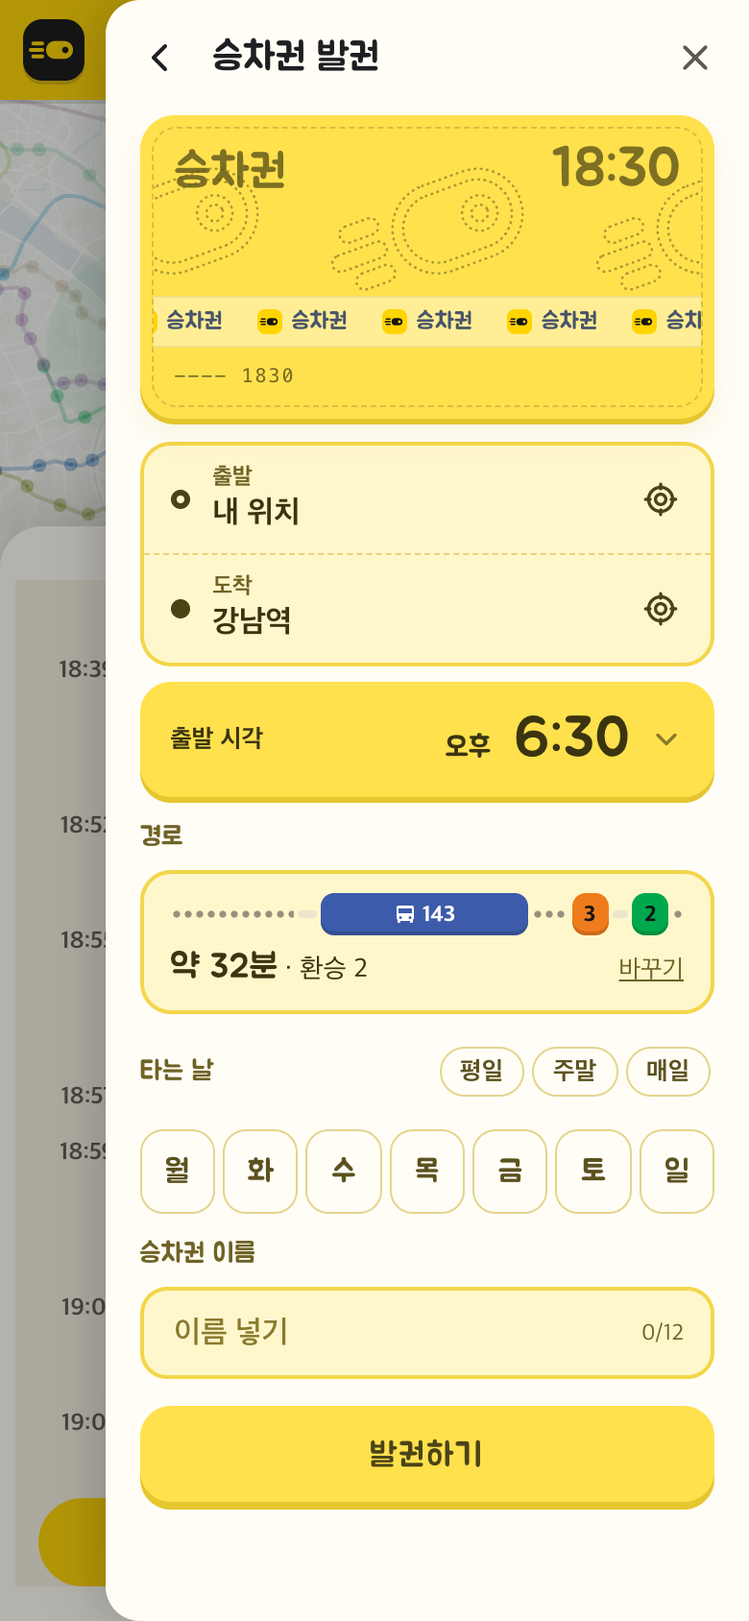
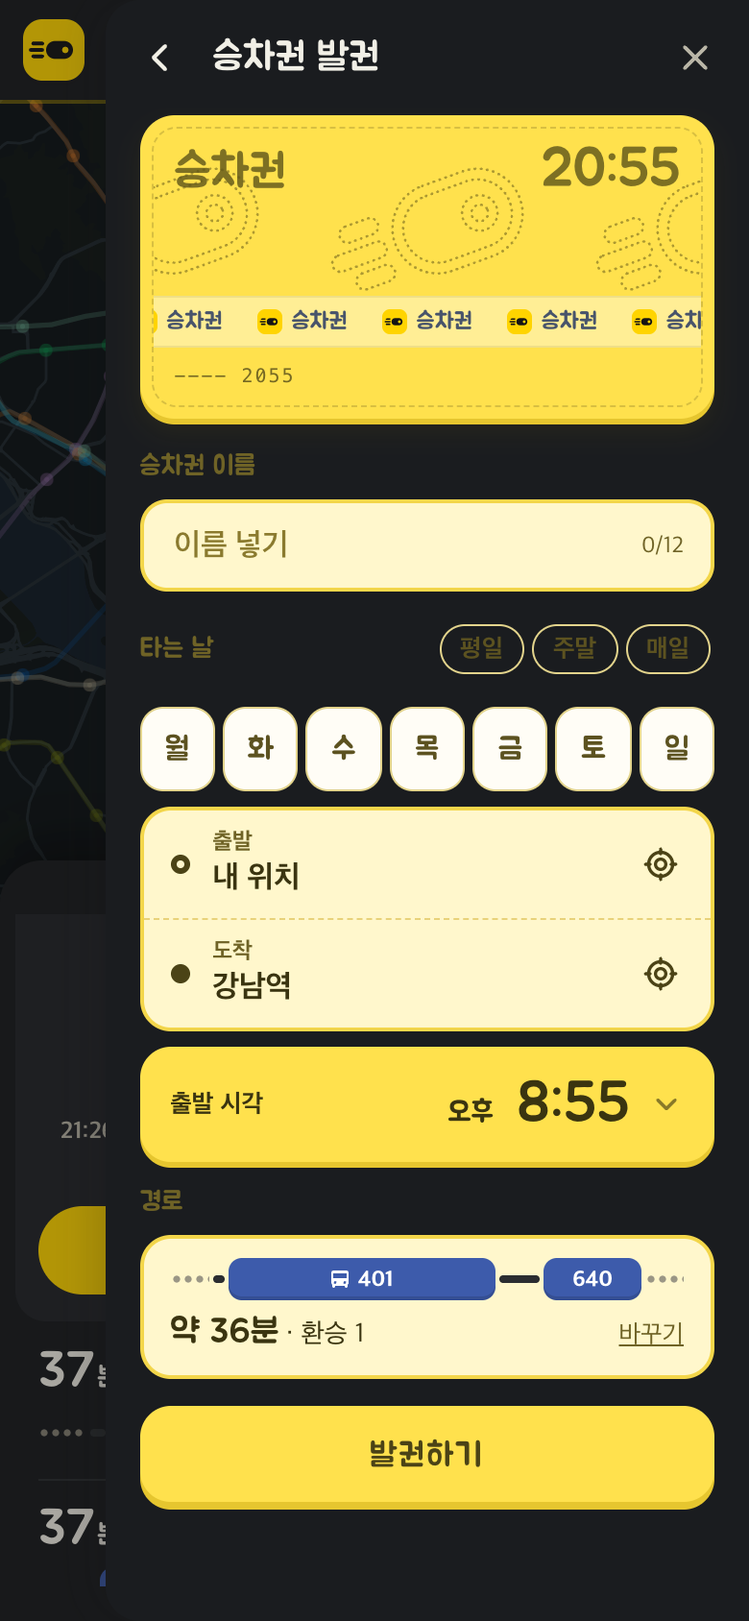
fix(web): 경로 시트 높이 고정 · 카드 닫힘 · 세 줄 칸 · 오늘 기준 출발 시각 · 발권 순서 변경

diff --git a/web/syung.css b/web/syung.css
@@ -436,6 +436,11 @@ html[data-theme=dark] .jdot.from{box-shadow:0 0 0 2px #000}
 
 /* 길찾기 sheet: taller, so the routes have room under the form */
 .sheet:has(.journey){max-height:72%}
+/* 휴대폰: 경로 결과 시트는 지도의 길이 보이게 처음 높이를 50%로 둔다. 카드를 펼치거나 시각을 골라도 커지지 않고 몸통(.sheet-body)이 스크롤한다.
+   손잡이를 위로 끌 때만 72%(.tall — ui/sheet.mts) */
+@media(max-width:720px){.sheet:not(.kb):has(.journey.done){height:50%;max-height:50%}
+  .sheet.tall:not(.kb):has(.journey.done){height:72%;max-height:72%}}
+@media(max-width:720px) and (prefers-reduced-motion:no-preference){.sheet:not(.kb):has(.journey.done){transition:transform .32s var(--ease-sheet),height .2s var(--ease-sheet),max-height .2s var(--ease-sheet)}}
 /* no double-tap page zoom on the controls; the map keeps its own gestures */
 .mast,.route-cta,.sheet,.jbar,.settings-panel{touch-action:manipulation}
 @media(max-width:720px){
@@ -461,6 +466,7 @@ html[data-theme=dark] .jdot.from{box-shadow:0 0 0 2px #000}
 .jsum-swap svg{width:18px;height:18px}
 .jsum-end b{font-weight:var(--weight-bold);overflow:hidden;text-overflow:ellipsis;white-space:nowrap}
 .jsum-end .jdot{width:8px;height:8px}
+
 .sheet .sheet-close{display:none}   /* every sheet: the handle closes it (drag down or tap), and Esc */
 
 /* kind filter: the same segmented control as the time and the theme */
@@ -628,25 +634,21 @@ html[data-theme=dark] .brand-icon{content:url(./brand/syung-light.svg)}
 .identity .brand-line p::before{content:"";width:1.5px;height:14px;border-radius:1px;background:currentColor;opacity:.45}
 @media(max-width:720px){.identity .brand-line p{display:none}}   /* phones: the name only */
 
-/* 출발 시각: one quiet line under the card; tapped, it opens in place — 오늘/내일, a big clock, −/+ 10분 */
+/* 출발 시각: 카드의 셋째 줄; tapped, it opens in place — the time wheels */
 .jwhen{display:block}
 .jw-row{display:flex;align-items:center;gap:var(--space-2);width:100%;height:44px;padding:0 var(--space-3) 0 14px;border:0;border-radius:var(--radius-14);background:var(--control);color:var(--ink);font:inherit;font-size:var(--text-14-5);font-weight:var(--weight-bold);text-align:left;cursor:pointer}
 .jw-row svg{width:17px;height:17px;flex:none;color:var(--secondary)}
 .jw-row span{flex:1;min-width:0}
 .jw-row .jw-chev{width:16px;height:16px;transition:transform var(--duration-200) var(--ease-sheet)}
-.jw-row[aria-expanded=true]{border-radius:var(--radius-14) var(--radius-14) 0 0}
 .jw-row[aria-expanded=true] .jw-chev{transform:rotate(90deg)}
 .jw-row.set svg:first-child{color:var(--syung-deep)}
 html[data-theme=dark] .jw-row.set svg:first-child{color:var(--syung)}
-.jw-panel{display:flex;flex-direction:column;align-items:stretch;gap:var(--space-3);padding:var(--space-1) 14px 14px;border-radius:0 0 var(--radius-14) var(--radius-14);background:var(--control);animation:jw-in var(--duration-200) var(--ease-sheet)}
+.jw-panel{display:flex;flex-direction:column;align-items:stretch;gap:var(--space-3);padding:0 14px 14px;background:var(--control);animation:jw-in var(--duration-200) var(--ease-sheet)}
 .jw-panel[hidden]{display:none}
 @keyframes jw-in{from{opacity:0;transform:translateY(-4px)}}
-.jw-head{display:flex;align-items:center;justify-content:space-between;border-top:1px solid var(--rule);padding-top:var(--space-3)}
-.jw-head b{font-size:var(--text-13);color:var(--secondary)}
-.jw-now{height:30px;padding:0 var(--space-3);border:0;border-radius:var(--radius-pill);background:var(--paper);color:var(--ink);font:inherit;font-size:var(--text-12-5);font-weight:var(--weight-bold);cursor:pointer}
-.jw-day{align-self:center;background:var(--paper)}
-.jw-day button{padding:7px 18px;font-size:var(--text-13-5)}
-.jw-go{height:46px;border:0;border-radius:var(--radius-pill);background:var(--syung);color:var(--syung-ink);font-family:var(--round);font-size:var(--text-16);cursor:pointer;box-shadow:var(--shadow-edge)}
+.jw-acts{display:flex;align-items:center;gap:var(--space-2)}
+.jw-now{flex:none;height:46px;padding:0 var(--space-3);border:0;border-radius:var(--radius-pill);background:var(--paper);color:var(--ink);font:inherit;font-size:var(--text-12-5);font-weight:var(--weight-bold);cursor:pointer}
+.jw-go{flex:1;min-width:0;height:46px;border:0;border-radius:var(--radius-pill);background:var(--syung);color:var(--syung-ink);font-family:var(--round);font-size:var(--text-16);cursor:pointer;box-shadow:var(--shadow-edge)}
 @media(prefers-reduced-motion:reduce){.jw-panel{animation:none}.jw-row .jw-chev{transition:none}}
 /* holding − / + (or the numbers) must not start iOS text selection or its copy callout */
 .jw-panel{-webkit-user-select:none;user-select:none;-webkit-touch-callout:none}
@@ -838,16 +840,16 @@ h4.pf-l{line-height:1.3}
 /* 출발 시각 휠(사용자와 정한 시안 B): 오전/오후 · 시 · 분(5분 단위)을 위아래로 돌려 가운데 노란 띠에 맞춘다 */
 .tf-wheel{margin-top:-8px;padding:var(--space-3) 14px 14px;border:2px solid #ffe14d;border-top:0;border-radius:0 0 var(--radius-16) var(--radius-16);background:#fff7cc;color:#3a3410;animation:jw-in var(--duration-200) var(--ease-sheet)}
 .tf-wheel[hidden]{display:none}
-.tw-cols{position:relative;display:flex;justify-content:center;align-items:center;gap:6px;height:200px}
-.tw-band{position:absolute;left:0;right:0;top:80px;height:40px;border-radius:var(--radius-12);background:#ffe14d;box-shadow:var(--shadow-edge-brand);pointer-events:none}
-.tw-col{position:relative;width:68px;height:200px;overflow-y:auto;scroll-snap-type:y mandatory;scrollbar-width:none;overscroll-behavior:contain;outline:0;
-  -webkit-mask-image:linear-gradient(transparent,#000 30%,#000 70%,transparent);mask-image:linear-gradient(transparent,#000 30%,#000 70%,transparent)}
+.tw-cols{position:relative;display:flex;justify-content:center;align-items:center;gap:6px;height:102px}   /* 세 칸(칸 높이 34px = lib/time-wheel.mts ROW) */
+.tw-band{position:absolute;left:0;right:0;top:34px;height:34px;border-radius:var(--radius-12);background:#ffe14d;box-shadow:var(--shadow-edge-brand);pointer-events:none}
+.tw-col{position:relative;width:68px;height:102px;overflow-y:auto;scroll-snap-type:y mandatory;scrollbar-width:none;overscroll-behavior:contain;outline:0;
+  -webkit-mask-image:linear-gradient(transparent,#000 25%,#000 75%,transparent);mask-image:linear-gradient(transparent,#000 25%,#000 75%,transparent)}
 .tw-col::-webkit-scrollbar{display:none}
 .tw-col:focus-visible{border-radius:var(--radius-14);outline:2px dashed #c9a800;outline-offset:-2px}   /* 키보드로 고를 때만: 노란 계열 점선(진한 선은 휠 위에서 딱딱해 보인다) */
-.tw-col::before,.tw-col::after{content:"";display:block;height:80px}
-.tw-col button{display:grid;place-items:center;width:100%;height:40px;padding:0;border:0;background:none;color:#b3a35a;font-family:var(--round);font-size:var(--text-19);scroll-snap-align:center;cursor:pointer;transition:color var(--duration-120),font-size var(--duration-120)}
-.tw-col button.near{color:#7d6f2c;font-size:var(--text-21)}.tw-col button.on{color:#3a3410;font-size:27px}
-.tw-colon{position:relative;font-family:var(--round);font-size:var(--text-26)}
+.tw-col::before,.tw-col::after{content:"";display:block;height:34px}
+.tw-col button{display:grid;place-items:center;width:100%;height:34px;padding:0;border:0;background:none;color:#b3a35a;font-family:var(--round);font-size:var(--text-16);scroll-snap-align:center;cursor:pointer;transition:color var(--duration-120),font-size var(--duration-120)}
+.tw-col button.near{color:#7d6f2c;font-size:var(--text-18)}.tw-col button.on{color:#3a3410;font-size:var(--text-21)}
+.tw-colon{position:relative;font-family:var(--round);font-size:var(--text-21)}
 .tw-foot{display:flex;align-items:center;justify-content:space-between;margin-top:var(--space-2)}.tw-foot span{font-size:var(--text-12);color:#6f6326}
 .tw-ok{min-height:44px;padding:0 22px;border:0;border-radius:var(--radius-14);background:#ffe14d;box-shadow:var(--shadow-edge-brand);color:#3a3410;font-family:var(--round);font-size:var(--text-16);cursor:pointer}
 @media(prefers-reduced-motion:reduce){.tf-wheel{animation:none}.tw-col{scroll-behavior:auto}}
@@ -980,10 +982,12 @@ html[data-app=map] .mode-busy{top:calc(12px + env(safe-area-inset-top,0px))}
 .ps-end b{font-size:var(--text-16)}
 .ps-route .ps-end+.ps-field,.ps-route .ps-field+.ps-end{border-top:1.5px dashed var(--syung-deep)}
 .ps-arrivals{height:44px;margin-top:var(--space-2);border:0;border-radius:var(--radius-pill);background:var(--control);color:var(--ink);font-family:var(--round);font-size:var(--text-15);cursor:pointer}
-.jtop{display:grid;grid-template-columns:minmax(0,1fr) auto;gap:var(--space-2);align-items:center}
+/* 출발 · 도착 · 시간 세 줄을 카드 하나에 묶는다. 맞바꾸기 단추는 출발 · 도착 줄 옆 */
+.jtop{display:grid;grid-template-columns:minmax(0,1fr);border-radius:var(--radius-16);background:var(--control)}
+.jtop .jsum{background:none;border-radius:0}
 .jtop .jwhen{display:contents!important}
-.jtop .jw-row{width:auto;gap:var(--space-1);padding:0 10px;white-space:nowrap;border-radius:var(--radius-14)}
-.jtop .jw-panel{grid-column:1/-1;border-radius:var(--radius-14)}
-.jw-wheel{align-self:stretch;margin-top:0;border-top:2px solid #ffe14d;border-radius:var(--radius-16)}   /* 발권 화면과 달리 위 칸에 붙지 않는 독립 칸 */
+.jtop .jw-row{background:none;border-top:1px dashed var(--rule);border-radius:0}
+.jtop .jw-panel{background:none;border-radius:0}
+.jw-wheel{align-self:stretch;margin-top:0;padding:var(--space-2) 14px;border-top:2px solid #ffe14d;border-radius:var(--radius-16)}   /* 발권 화면과 달리 위 칸에 붙지 않는 독립 칸 */
 .jp-note{margin:var(--space-2) 0 0;font-size:var(--text-14);line-height:20px;color:var(--secondary)}
 .jp-ticket{display:block;width:100%;height:46px;margin:var(--space-2) 0 2px;border:0;border-radius:var(--radius-pill);background:var(--syung);color:var(--syung-ink);font-family:var(--round);font-size:var(--text-16);cursor:pointer}

diff --git a/.storybook/assembled.tsx b/.storybook/assembled.tsx
@@ -93,6 +93,9 @@ export function TicketPage({ from, to = '', found, wheel = false, route, days = 
   return <section id="menuTicket" class="menu-page ticket-page">
     <div id="ticketPreview" aria-hidden="true"><div class="ticket"><div class="ticket-in"><TicketFront ticket={{ name, depart: '08:00', days }} today={days.includes(RIDE_DAY)} /></div></div></div>
     <form id="ticketForm" class="ticket-form" autocomplete="off" noValidate>
+      <label class="tf-l" for="ticketName">승차권 이름</label>
+      <div class="tf-in"><input id="ticketName" maxlength={12} placeholder="이름 넣기" enterkeyhint="done" value={name} /><small id="ticketNameCount" aria-hidden="true">{`${[...name].length}/12`}</small></div>
+      <DayPicker days={days} onDay={noop} onQuick={noop} />
       <div class="tf-route"><div class="tf-pls">
         <PlaceField id="ticketFrom" head="출발" name="출발지" placeholder="출발지 고르기" value={from} {...place(found ?? [], !found)} />
         <PlaceField id="ticketTo" head="도착" name="도착지" placeholder="도착지 고르기" to value={to} {...place([], true)} />
@@ -100,9 +103,6 @@ export function TicketPage({ from, to = '', found, wheel = false, route, days = 
       <TimeField open={wheel} text={{ ampm: '오전', clock: '8:00' }} value="08:00" onToggle={noop} onDone={noop} />
       <span id="ticketRouteLabel" class="tf-l">경로</span>
       <button id="ticketRoute" class={route ? 'tf-pick' : 'tf-pick empty'} type="button" aria-labelledby="ticketRouteLabel ticketRoute" dangerouslySetInnerHTML={{ __html: routeBody }}></button>
-      <DayPicker days={days} onDay={noop} onQuick={noop} />
-      <label class="tf-l" for="ticketName">승차권 이름</label>
-      <div class="tf-in"><input id="ticketName" maxlength={12} placeholder="이름 넣기" enterkeyhint="done" value={name} /><small id="ticketNameCount" aria-hidden="true">{`${[...name].length}/12`}</small></div>
       <SaveButton id="ticketSave" type="submit" disabled={!route}>발권하기</SaveButton>
     </form>
   </section>;
@@ -224,13 +224,13 @@ const planView = (plan:Plan) => ({
 const KIND_NAMES = [['all', '전체'], ['subway', '지하철'], ['bus', '버스'], ['mixed', '지하철+버스']] as const;
 const countOf = (kind:string) => JOURNEY_PLANS.filter(plan => kind === 'all' || plan.kind === kind).length;
 const EMPTY_SEARCH = { title: '어디로 갈까요?', query: '', hits: [], pending: false, failed: false, fixed: null, here: false };
-export const EMPTY_JOURNEY:JourneyView = { stage: 'search', search: EMPTY_SEARCH, picked: null, done: false, summary: null, whenText: '지금 출발', whenAt: false, whenOpen: false, draft: null, status: { text: '', sr: false }, result: { kind: 'none' } };
+export const EMPTY_JOURNEY:JourneyView = { stage: 'search', search: EMPTY_SEARCH, picked: null, done: false, summary: null, whenText: '지금 출발', whenAt: false, whenOpen: false, status: { text: '', sr: false }, result: { kind: 'none' } };
 export const FOUND_JOURNEY:JourneyView = { ...EMPTY_JOURNEY, stage: 'route', done: true,
   summary: { from: FROM, to: TO, when: '지금 출발', aria: `${FROM}에서 ${TO}까지, 지금 출발` },
   result: { kind: 'plans',
     tabs: KIND_NAMES.filter(([kind]) => countOf(kind)).map(([kind, name]) => ({ kind, name, count: countOf(kind), pressed: kind === 'all' })),
     cards: JOURNEY_PLANS.map((plan, index) => ({ plan: planView(plan), kind: plan.kind, on: index === 0, hidden: false })) } };
-export const JOURNEY_ACTIONS:JourneyActions = { typed: noop, place: noop, here: noop, end: noop, arrivals: noop, changeEnd: noop, swap: noop, whenRow: noop, whenNow: noop, whenGo: noop, day: noop, tab: noop, card: noop, ticket: noop, retry: noop };
+export const JOURNEY_ACTIONS:JourneyActions = { typed: noop, place: noop, here: noop, end: noop, arrivals: noop, changeEnd: noop, swap: noop, whenRow: noop, whenNow: noop, whenGo: noop, tab: noop, card: noop, ticket: noop, retry: noop };
 export const JourneyScreen = ({ view }:{ view:JourneyView }) => <>
   <MapApp />
   <section class="sheet open" aria-label="상세 정보"><SheetFrame><JourneySheet view={view} actions={JOURNEY_ACTIONS} /></SheetFrame></section>

diff --git a/web/components/journey.stories.tsx b/web/components/journey.stories.tsx
@@ -1,7 +1,7 @@
 // 길찾기 부품 스토리: 출발 시각 고르기 · 접힌 요약 · 못 찾음 · 안내 글 · 아래 막대(기본 · 누름 · 포커스 · 비활성 · 빈 상태 · 긴 이름, 라이트/다크는 도구 막대)
 import type { Meta, StoryObj } from '@storybook/preact-vite';
 import { useEffect, useRef, useState } from 'preact/hooks';
-import type { DraftView, JourneyBarView } from '../lib/journey-ui.mts';
+import type { JourneyBarView } from '../lib/journey-ui.mts';
 import { createTimeWheel } from '../lib/time-wheel.mts';
 import { JourneyBar, JourneySummary } from './journey_summary.tsx';
 import { JourneyWhen } from './journey_when.tsx';
@@ -17,20 +17,19 @@ const noop = () => {};
 const LONG_NAME = LONG_PLACES[0]!.name;
 
 // 시각 고르기: 바퀴 칸 속은 화면과 같은 lib/time-wheel.mts 가 채운다
-const DRAFT:DraftView = { tomorrow: false };
-function When({ open = false, text = '지금 출발', isSet = false, first = DRAFT }:{ open?:boolean; text?:string; isSet?:boolean; first?:DraftView }) {
-  const [shown, setShown] = useState(open), [draft, setDraft] = useState(first), box = useRef<HTMLDivElement>(null);
+function When({ open = false, text = '지금 출발', isSet = false }:{ open?:boolean; text?:string; isSet?:boolean }) {
+  const [shown, setShown] = useState(open), box = useRef<HTMLDivElement>(null);
   useEffect(() => {
     const wheel = box.current?.querySelector<HTMLElement>('#jWhenWheel');
     if (shown && wheel) createTimeWheel(wheel, noop).show('08:30');
   }, [shown]);
-  return <div ref={box} class="sb-paper"><div class="journey"><JourneyWhen text={text} isSet={isSet} open={shown} draft={draft}
-    onRow={() => setShown(!shown)} onNow={() => setShown(false)} onGo={() => setShown(false)} onDay={day => setDraft({ tomorrow: day === 1 })} /></div></div>;
+  return <div ref={box} class="sb-paper"><div class="journey"><div class="jtop"><JourneyWhen text={text} isSet={isSet} open={shown}
+    onRow={() => setShown(!shown)} onNow={() => setShown(false)} onGo={() => setShown(false)} /></div></div></div>;
 }
 export const 시각_접힘:StoryObj = { name: '출발 시각/접힘(지금 출발)', render: () => <When /> };
 export const 시각_고름:StoryObj = { name: '출발 시각/접힘(고른 시각)', render: () => <When text="오늘 08:30 출발" isSet /> };
+export const 시각_내일:StoryObj = { name: '출발 시각/접힘(자정 직전 내일)', render: () => <When text="내일 00:00 출발" isSet /> };
 export const 시각_펼침:StoryObj = { name: '출발 시각/펼침(바퀴)', render: () => <When open /> };
-export const 시각_내일:StoryObj = { name: '출발 시각/펼침(내일)', render: () => <When open first={{ tomorrow: true }} /> };
 export const 시각_줄_포커스:StoryObj = { name: '출발 시각/줄 포커스', render: () => <When />, play: ({ canvasElement }) => freeze(canvasElement, '.jw-row', 'is-focus') };
 export const 시각_단추_누름:StoryObj = { name: '출발 시각/이 시간에 출발 누름', render: () => <When open />, play: ({ canvasElement }) => freeze(canvasElement, '.jw-go', 'is-pressed') };
 
@@ -39,7 +38,7 @@ function Summary({ from = '강남역 2호선', to = '교대역', when = '지금 
   return <div class="sb-paper"><div class="journey done"><JourneySummary summary={{ from, to, when, aria: `${from}에서 ${to}까지, ${when}` }} onEnd={noop} onSwap={noop} /></div></div>;
 }
 export const 요약:StoryObj = { name: '접힌 요약/기본', render: () => <Summary /> };
-export const 요약_고른_시각:StoryObj = { name: '접힌 요약/고른 시각', render: () => <Summary when="내일 08:30 출발" /> };
+export const 요약_고른_시각:StoryObj = { name: '접힌 요약/고른 시각', render: () => <Summary when="오늘 08:30 출발" /> };
 export const 요약_긴_이름:StoryObj = { name: '접힌 요약/긴 이름', render: () => <Summary from={LONG_NAME} to={LONG_NAME} /> };
 export const 요약_포커스:StoryObj = { name: '접힌 요약/포커스', render: () => <Summary />, play: ({ canvasElement }) => freeze(canvasElement, '.jsum-end', 'is-focus') };
 

diff --git a/.storybook/search_merge.stories.tsx b/.storybook/search_merge.stories.tsx
@@ -30,7 +30,8 @@ const finding = (title:string, which:'from' | 'to'):JourneyView => ({ ...EMPTY_J
 const PLAN_RESULT = FOUND_JOURNEY.result as Extract<JourneyResultView, { kind:'plans' }>;
 // 조립 화면의 고정 경로를 쓰되 출발 · 도착 이름만 이 흐름의 것으로
 const CARDS = PLAN_RESULT.cards.map(card => ({ ...card, plan: { ...card.plan, steps: card.plan.steps.map(step => step.kind === 'place' ? { ...step, name: step.at === 'start' ? MY_PLACE : STATION } : step) } }));
-const ROUTE:JourneyView = { ...FOUND_JOURNEY, summary: { from: MY_PLACE, to: STATION, when: '지금 출발', aria: `${MY_PLACE}에서 ${STATION}까지, 지금 출발` }, result: { ...PLAN_RESULT, cards: CARDS } };
+const OPENED:JourneyView = { ...FOUND_JOURNEY, summary: { from: MY_PLACE, to: STATION, when: '지금 출발', aria: `${MY_PLACE}에서 ${STATION}까지, 지금 출발` }, result: { ...PLAN_RESULT, cards: CARDS } };
+const ROUTE:JourneyView = { ...OPENED, result: { ...PLAN_RESULT, cards: CARDS.map(card => ({ ...card, on: false })) } };   // 처음 나온 결과: 카드는 접혀 있다
 
 const focusInput = (doc:Document) => doc.querySelector<HTMLInputElement>('#placeInput')?.focus({ preventScroll: true });
 // 바퀴 칸 속은 화면과 같은 lib/time-wheel.mts 가 채운다
@@ -46,11 +47,11 @@ const SCREENS:{ title:string; screen:AssembledScreen }[] = [
   { title: '5. 장소를 고름: 슝 마커 + 작은 시트', screen: sheet(picked(PLACE_HIT)) },
   { title: '6. 뒤로: 마커 · 시트 닫고 검색어 · 결과 그대로', screen: sheet(FOUND) },
   { title: '7. 도착을 고름: 출발은 내 위치, 지금 출발로 경로 결과', screen: sheet(ROUTE) },
-  { title: '8. 「지금 출발」을 누르면 발권 화면과 같은 시각 바퀴', screen: sheet({ ...ROUTE, whenOpen: true, draft: { tomorrow: false } }, fillWheel) },
-  { title: '9. 펼친 경로 카드 맨 아래 「승차권 등록」', screen: sheet(ROUTE, showTicketButton) },
+  { title: '8. 「지금 출발」을 누르면 발권 화면과 같은 시각 바퀴', screen: sheet({ ...ROUTE, whenOpen: true }, fillWheel) },
+  { title: '9. 경로 카드를 고르면 펼쳐지고 맨 아래 「승차권 등록」', screen: sheet(OPENED, showTicketButton) },
   { title: '10. 경로 목록 위에 기존 발권 화면이 채워진 채 열림(닫으면 목록 그대로)', screen: { draw: () => <>
     <Drawer title="승차권 발권"><TicketPage from={MY_PLACE} to={STATION} route={JOURNEY_PLANS[0]!} /></Drawer>
-    <section class="sheet open" aria-label="상세 정보"><SheetFrame><JourneySheet view={ROUTE} actions={JOURNEY_ACTIONS} /></SheetFrame></section>
+    <section class="sheet open" aria-label="상세 정보"><SheetFrame><JourneySheet view={OPENED} actions={JOURNEY_ACTIONS} /></SheetFrame></section>
   </> } },
   { title: '11. 출발을 고름: 도착을 같은 방식으로 찾기', screen: sheet(finding('어디로 갈까요?', 'from'), focusInput) },
   { title: '12. 내 위치를 못 쓸 때: 보던 자리에서 출발 찾기', screen: sheet(finding('어디서 출발할까요?', 'to'), focusInput) },

diff --git a/web/components/journey_when.tsx b/web/components/journey_when.tsx
@@ -1,24 +1,20 @@
-// 길찾기 출발 시각 고르기: 접힌 줄(지금 출발 · 오늘 08:30 출발)과 펼친 칸(오늘/내일 · 발권 화면과 같은 시각 바퀴 · 지금으로 · 이 시간에 출발). props 만 받아 그린다 — 시각 셈은 lib/journey-ui.mts.
-import type { DraftView } from '../lib/journey-ui.mts';
-import { Segmented } from './segmented.tsx';
+// 길찾기 출발 시각 고르기: 시간 줄(지금 출발 · 오늘 08:30 출발)과 펼친 칸(발권 화면과 같은 시각 바퀴 · 지금으로 · 이 시간에 출발). props 만 받아 그린다 — 시각 셈은 lib/journey-ui.mts.
 import { TimeWheels } from './time_field.tsx';
 
 const CHEV = <svg class="jw-chev" viewBox="0 0 24 24" aria-hidden="true" fill="none" stroke="currentColor" stroke-width="2.2" stroke-linecap="round" stroke-linejoin="round"><path d="m9 6 6 6-6 6"/></svg>;
 const CLOCK = <svg viewBox="0 0 24 24" aria-hidden="true" fill="none" stroke="currentColor" stroke-width="2" stroke-linecap="round"><circle cx="12" cy="12" r="8.5"/><path d="M12 7.5V12l3 2"/></svg>;
 
 export interface JourneyWhenProps {
-  text:string; isSet:boolean;   // 접힌 줄 글자 · 시각을 골랐는가
-  open:boolean; draft:DraftView | null;
-  onRow():void; onNow():void; onGo():void; onDay(offset:number):void;
+  text:string; isSet:boolean;   // 시간 줄 글자 · 시각을 골랐는가
+  open:boolean;
+  onRow():void; onNow():void; onGo():void;
 }
-export function JourneyWhen({ text, isSet, open, draft, onRow, onNow, onGo, onDay }:JourneyWhenProps) {
+export function JourneyWhen({ text, isSet, open, onRow, onNow, onGo }:JourneyWhenProps) {
   return <div class="jopts jwhen">
     <button type="button" class={isSet ? 'jw-row set' : 'jw-row'} id="jWhenRow" aria-expanded={open} aria-controls="jWhenPanel" onClick={onRow}>{CLOCK}<span id="jWhenText">{text}</span>{CHEV}</button>
-    <div class="jw-panel" id="jWhenPanel" hidden={!open}>
-      <div class="jw-head"><b>출발 시각</b><button type="button" class="jw-now" id="jWhenNow" onClick={onNow}>지금으로</button></div>
-      <Segmented label="날짜" class="jw-day" attr="d" items={[{ id: '0', name: '오늘', pressed: !(draft?.tomorrow ?? false) }, { id: '1', name: '내일', pressed: draft?.tomorrow ?? false }]} onPick={day => onDay(Number(day))} />
+    <div class="jw-panel" id="jWhenPanel" role="group" aria-label="출발 시각" hidden={!open}>
       <div class="tf-wheel jw-wheel" id="jWhenWheel"><TimeWheels /></div>
-      <button type="button" class="jw-go" id="jWhenGo" onClick={onGo}>이 시간에 출발</button>
+      <div class="jw-acts"><button type="button" class="jw-now" id="jWhenNow" onClick={onNow}>지금으로</button><button type="button" class="jw-go" id="jWhenGo" onClick={onGo}>이 시간에 출발</button></div>
     </div>
   </div>;
 }

diff --git a/web/components/ticket_form.tsx b/web/components/ticket_form.tsx
@@ -1,4 +1,4 @@
-// 발권 화면 틀: 미리보기 · 출발 · 도착 칸 · 시각 · 경로 칸 · 요일 · 이름 · 발권하기 · 지우기의 자리와 섹션 제목. props 만 받아 그린다.
+// 발권 화면 틀: 미리보기 · 이름 · 요일 · 출발 · 도착 칸 · 시각 · 경로 칸 · 발권하기 · 지우기의 자리와 섹션 제목. props 만 받아 그린다.
 // 칸 부품(장소 · 시각 · 요일)은 화면이 값을 채워 넣는다(places · time · days). 검사 · 저장은 화면(user/account.mts). DOM · class · id · 문구 · aria 는 옛 화면 그대로 — 스타일은 syung.css.
 import type { ComponentChildren } from 'preact';
 import { SaveButton } from './save_button.tsx';
@@ -18,15 +18,15 @@ export function TicketForm({ preview, places, time, days, routeHTML, routeEmpty,
   return <>
     <div id="ticketPreview" aria-hidden="true">{preview && <div class="ticket"><div class="ticket-in"><TicketFront ticket={preview.ticket} today={preview.today} /></div></div>}</div>
     <form id="ticketForm" class="ticket-form" autocomplete="off" noValidate onSubmit={event => { event.preventDefault(); onSubmit?.() }}>
+      <label class="tf-l" for="ticketName">승차권 이름</label><div class="tf-in"><input id="ticketName" maxlength={12} placeholder="이름 넣기" enterkeyhint="done" value={name}
+        onInput={event => onName?.(event.currentTarget.value)} /><small id="ticketNameCount" aria-hidden="true">{`${[...name].length}/12`}</small></div>
+      {days}
       <div class="tf-route"><div class="tf-pls">{places}</div></div>
       {time}
       <span id="ticketRouteLabel" class="tf-l">경로</span>
       <button id="ticketRoute" class={routeEmpty ? 'tf-pick empty' : 'tf-pick'} type="button" aria-labelledby="ticketRouteLabel ticketRoute" onClick={() => onRoute?.()}
         dangerouslySetInnerHTML={{ __html: routeHTML }}></button>
       {routeNote && <p class="tf-note" role="status">{routeNote}</p>}
-      {days}
-      <label class="tf-l" for="ticketName">승차권 이름</label><div class="tf-in"><input id="ticketName" maxlength={12} placeholder="이름 넣기" enterkeyhint="done" value={name}
-        onInput={event => onName?.(event.currentTarget.value)} /><small id="ticketNameCount" aria-hidden="true">{`${[...name].length}/12`}</small></div>
       <SaveButton id="ticketSave" type="submit" disabled={saveDisabled}>{sending ? '발권하는 중…' : '발권하기'}</SaveButton>
       <button id="ticketDelete" class="tf-del" type="button" hidden={deleteHidden} onClick={() => onDelete?.()}>{deleteArmed ? '한 번 더 누르면 지워요' : '이 승차권 지우기'}</button>
     </form>

diff --git a/web/components/segmented.stories.tsx b/web/components/segmented.stories.tsx
@@ -1,4 +1,4 @@
-// 세그먼트 탭 스토리: 길찾기 경로 종류(개수) · 오늘/내일. 누르면 고른 칸이 바뀐다
+// 세그먼트 탭 스토리: 길찾기 경로 종류(개수). 누르면 고른 칸이 바뀐다
 import type { Meta, StoryObj } from '@storybook/preact-vite';
 import { useState } from 'preact/hooks';
 import { Segmented } from './segmented.tsx';
@@ -12,10 +12,5 @@ function Kinds() {
   const [picked, setPicked] = useState('all');
   return <Segmented label="경로 종류" class="jkinds" attr="k" items={KINDS.map(([id, name, count]) => ({ id, name, count, pressed: id === picked }))} onPick={setPicked} />;
 }
-function Days() {
-  const [picked, setPicked] = useState('0');
-  return <Segmented label="날짜" class="jw-day" attr="d" items={[{ id: '0', name: '오늘', pressed: picked === '0' }, { id: '1', name: '내일', pressed: picked === '1' }]} onPick={setPicked} />;
-}
 
 export const 경로_종류:StoryObj = { name: '경로 종류', render: () => <div class="sb-paper"><Kinds /></div> };
-export const 오늘_내일:StoryObj = { name: '오늘 · 내일', render: () => <div class="sb-paper sb-row"><Days /></div> };

diff --git a/web/ui/journey_sheet.tsx b/web/ui/journey_sheet.tsx
@@ -34,7 +34,7 @@ export function JourneySheet({ view, actions }:{ view:JourneyView; actions:Journ
   return <div class="journey done">
     <div class="jtop">
       <JourneySummary summary={view.summary} onEnd={actions.changeEnd} onSwap={actions.swap} />
-      <JourneyWhen text={view.whenText} isSet={view.whenAt} open={view.whenOpen} draft={view.draft} onRow={actions.whenRow} onNow={actions.whenNow} onGo={actions.whenGo} onDay={actions.day} />
+      <JourneyWhen text={view.whenText} isSet={view.whenAt} open={view.whenOpen} onRow={actions.whenRow} onNow={actions.whenNow} onGo={actions.whenGo} />
     </div>
     <div class={view.status.sr ? 'jf-status sr' : 'jf-status'} id="jStatus" role="status" aria-live="polite">{view.status.text}</div>
     <div id="jResult"><Result result={view.result} actions={actions} /></div>

diff --git a/web/components/segmented.tsx b/web/components/segmented.tsx
@@ -1,4 +1,4 @@
-// 기초 컴포넌트: 세그먼트 탭(길찾기 종류 탭 · 오늘/내일 · 승차권 경로 종류 — .segmented). 고른 칸은 aria-pressed.
+// 기초 컴포넌트: 세그먼트 탭(길찾기 종류 탭 · 승차권 경로 종류 — .segmented). 고른 칸은 aria-pressed.
 // 지금 화면과 같은 DOM(div role=group > button[data-<attr>] · 개수는 <b>)을 그려 syung.css 를 그대로 쓴다
 import type { ComponentChildren } from 'preact';
 

diff --git a/docs/flows/02-journey.md b/docs/flows/02-journey.md
@@ -35,10 +35,10 @@ flowchart TD
   Ans -- "연결 실패" --> NetErr[/"연결이 불안정해요. 잠시 뒤 다시 찾아 주세요."/]
   NoRoute -- "다시 찾기" --> Go
   NetErr -- "다시 찾기" --> Go
-  Ans -- "경로 있음" --> Result["요약 줄 + 시각 줄 + 종류 탭 + 경로 카드 · 첫 카드 펼침 · 지도에 그림"]
+  Ans -- "경로 있음" --> Result["요약 줄 + 시각 줄 + 종류 탭 + 경로 카드(모두 접힘) · 첫 경로를 지도에 그림"]
   Result -- "요약 줄의 출발 · 도착" --> FindOther
-  Result -- "시각 줄 → 오늘 · 내일 · 시각 바퀴" --> Go
-  Result -- "다른 카드 누르기" --> Steps["그 카드 펼침 · 단계 목록 · 지도에 그 길"]
+  Result -- "시각 줄 → 시각 바퀴" --> Go
+  Result -- "카드 누르기" --> Steps["그 카드 펼침 · 단계 목록 · 지도에 그 길"]
   Result -- "종류 탭" --> Steps
   Steps -- "승차권 등록" --> Ticket(["→ 03 발권 서랍 · 닫으면 펼친 카드 그대로"])
   Steps -- "펼친 카드를 또 누르기 · 닫기" --> Closed["시트 닫힘 · 경로는 지도에 남음"]
@@ -54,9 +54,9 @@ flowchart TD
 2. **장소 찾기** — 역은 치는 대로, 장소는 두 글자부터 0.3초 뒤 찾아 한 목록으로 보여 준다(늦게 온 답은 버린다). 고르면 슝 마커와 작은 시트가 뜬다. 한쪽 끝이 이미 정해져 있으면 고르는 즉시 경로를 찾는다.
 3. **끝 정하기** — 작은 시트의 「여기로 도착」은 내 위치를 알면 바로 찾고, 모르면 출발을 같은 방식으로 찾는다. 「여기서 출발」은 도착을 같은 방식으로 찾는다.
 4. **찾기** — 찾는 동안 「경로를 찾고 있어요」와 뼈대 카드. 시각은 묻지 않고 지금 출발로 찾는다.
-5. **경로 고르기** — 결과가 오면 첫 카드가 펼쳐져 지도에 그려진다. 경로 종류가 둘 이상이면 「전체 · 지하철 · 버스 · 지하철+버스」 탭이 뜬다(탭으로 고른 카드가 숨으면 첫 보이는 카드로). 요약 줄의 출발 · 도착을 누르면 그 끝을 장소 검색으로 바꾼다.
-6. **출발 시각** — 기본 「지금 출발」. 시각 줄을 누르면 오늘 · 내일과 발권 화면과 같은 시각 바퀴(오전 · 오후 / 시 / 5분 단위 분)로 고르고 「이 시간에 출발」, 「지금으로」 로 되돌린다. 고를 수 있는 범위는 다음 5분 ~ 내일 23:55이고, 지난 시각에서 멈추면 가장 이른 때로 되돌린다.
-7. **단계 보기** — 펼친 카드(`.jp.on`)에만 단계 목록이 보인다. 다른 카드를 누르면 그 카드가 펼쳐지고 지도의 길도 바뀐다. 맨 아래 「승차권 등록」은 목록 위에 발권 서랍을 연다([06](06-search-merge.md)).
+5. **경로 고르기** — 결과가 오면 첫 경로가 지도에 그려지고 카드는 모두 접혀 있다. 휴대폰에서 시트 높이는 처음에 지도 영역의 50%이고, 카드를 펼치거나 시각을 골라도 커지지 않고 시트 안에서 스크롤한다. 손잡이를 위로 끌면 72%로 커지고, 72%에서 아래로 끌면 50%로, 50%에서 아래로 끌면 닫힌다. 펼친 상세가 시트 밖으로 나가면 카드 머리부터 보이게 스크롤한다. 경로 종류가 둘 이상이면 「전체 · 지하철 · 버스 · 지하철+버스」 탭이 뜬다(지도의 경로가 숨으면 첫 보이는 경로를 카드는 접은 채 지도에 그린다). 요약 줄의 출발 · 도착을 누르면 그 끝을 장소 검색으로 바꾼다.
+6. **출발 시각** — 출발 · 도착과 한 카드에 묶인 셋째 줄이다. 기본 「지금 출발」, 고르면 「오늘 19:40 출발」(자정이면 「내일 00:00 출발」). 줄을 누르면 발권 화면과 같은 시각 바퀴(오전 · 오후 / 시 / 5분 단위 분, 세 칸)로 고르고 「이 시간에 출발」, 「지금으로」 로 되돌린다. 날짜는 고르지 않고 오늘 기준이다. 고를 수 있는 범위는 다음 5분 ~ 오늘 23:55이고(23:55 뒤에는 다음 5분인 자정만), 지난 시각에서 멈추면 가장 이른 때로 되돌린다.
+7. **단계 보기** — 펼친 카드(`.jp.on`)에만 단계 목록이 보인다. 카드를 누르면 그 카드가 펼쳐지고 지도의 길도 바뀐다. 맨 아래 「승차권 등록」은 목록 위에 발권 서랍을 연다([06](06-search-merge.md)).
 8. **지도에서 보기** — 펼친 카드를 한 번 더 누르거나 시트를 닫으면 시트만 닫히고 경로는 지도에 남는다(안내 「경로를 누르면 지도에 보여요. 창을 닫아도 경로는 남아 있어요.」). 아래 막대가 뜬다.
 
 ## 갈림길

diff --git a/docs/flows/03-tickets.md b/docs/flows/03-tickets.md
@@ -33,7 +33,7 @@ flowchart TD
 ## 흐름도 — 발권 · 고치기
 ```mermaid
 flowchart TD
-  Open(["발권 화면 열기"]) --> Form["미리보기 승차권 + 출발 · 도착 · 출발 시각 · 경로 · 타는 날 · 이름"]
+  Open(["발권 화면 열기"]) --> Form["미리보기 승차권 + 이름 · 타는 날 · 출발 · 도착 · 출발 시각 · 경로"]
   Form -- "장소 칸에 두 글자 이상" --> Place["칸 아래 찾은 곳"]
   Place -- "결과 없음 · 실패" --> PlaceErr[/"찾는 곳이 없어요 · 검색하지 못했어요"/]
   Place -- "고르기" --> Changed
@@ -69,10 +69,10 @@ flowchart TD
 2. **뒤집기** — 카드를 누르면 뒷면. 저장한 경로가 있으면 그 경로 띠, 없으면(옛 승차권) 다음 탈 날 그 시각으로 찾아 가장 빠른 길을 띠로 그린다. 「경로 자세히」로 단계 목록을 펼친다.
 3. **지도에서 보기** — 뒷면의 단추. 저장한 경로에는 지도에 그릴 길 모양이 없어 다음 탈 날 그 시각으로 다시 찾는다. 같은 길이 있으면 그 길, 없으면 가장 빠른 길 + 「지금은 다른 길이 빨라요」. 서랍이 닫히고 지도에 길, 아래 막대(「‹ 승차권으로」). 막대 · ✕ 를 누르면 서랍 · 목록 · 그 카드로 돌아온다.
 4. **발권 화면 열기** — 「+ 승차권 예매하기」(새로 · 출발 시각 08:00 · 타는 날 없음) 또는 「고치기 ›」(그 승차권 값). 위쪽 미리보기 승차권이 고치는 대로 바뀐다.
-5. **장소** — 출발 · 도착 칸에 두 글자 이상 치면 0.3초 뒤 칸 아래 목록. 출발을 고르면 도착 칸으로 초점이 간다. 위치 핀은 본체가 아는 위치를, 없으면 한 번 물어 그 칸을 「내 위치」로 채운다.
-6. **출발 시각** — 휠(오전 · 오후 / 시 / 분 5분 단위)을 돌리고 「완료」. 돌리는 동안은 미리보기만 바뀌고, 접을 때 시각이 바뀌었으면 고른 경로를 푼다.
-7. **경로 선택** — 「경로」 칸을 누르면 경로 선택 쪽으로 간다. 머리말은 달력 날짜(고른 요일 중 가장 가까운 날 — 없으면 오늘, 시각이 지났으면 다음 날) · 「출발지에서 → 도착지까지」 · 「오전 HH:MM 출발 · 이 시각 출발 기준으로 찾은 경로」. 같은 길 모양은 가장 빠른 것 하나로 묶고, 처음에는 저장한 경로(고칠 때) 또는 「가장 빠른 길」이 골라져 있다. 서랍이 지도 옆(휴대폰은 반쪽 시트)으로 비켜 고른 카드의 길을 지도에 그린다. 종류 탭은 받은 길을 다시 나눌 뿐 다시 찾지 않는다. 「이 경로로」를 누르면 발권 화면으로 돌아가 경로 칸에 「약 N분 · 환승 N」.
-8. **타는 날 · 이름** — 요일 단추와 「평일 · 주말 · 매일」. 이름은 12자까지.
+5. **타는 날 · 이름** — 맨 위 이름은 12자까지, 그 아래 요일 단추와 「평일 · 주말 · 매일」.
+6. **장소** — 출발 · 도착 칸에 두 글자 이상 치면 0.3초 뒤 칸 아래 목록. 출발을 고르면 도착 칸으로 초점이 간다. 위치 핀은 본체가 아는 위치를, 없으면 한 번 물어 그 칸을 「내 위치」로 채운다.
+7. **출발 시각** — 휠(오전 · 오후 / 시 / 분 5분 단위)을 돌리고 「완료」. 돌리는 동안은 미리보기만 바뀌고, 접을 때 시각이 바뀌었으면 고른 경로를 푼다.
+8. **경로 선택** — 「경로」 칸을 누르면 경로 선택 쪽으로 간다. 머리말은 달력 날짜(고른 요일 중 가장 가까운 날 — 없으면 오늘, 시각이 지났으면 다음 날) · 「출발지에서 → 도착지까지」 · 「오전 HH:MM 출발 · 이 시각 출발 기준으로 찾은 경로」. 같은 길 모양은 가장 빠른 것 하나로 묶고, 처음에는 저장한 경로(고칠 때) 또는 「가장 빠른 길」이 골라져 있다. 서랍이 지도 옆(휴대폰은 반쪽 시트)으로 비켜 고른 카드의 길을 지도에 그린다. 종류 탭은 받은 길을 다시 나눌 뿐 다시 찾지 않는다. 「이 경로로」를 누르면 발권 화면으로 돌아가 경로 칸에 「약 N분 · 환승 N」.
 9. **저장** — 경로를 고르기 전에는 「발권하기」가 꺼져 있다. 누르면 「발권하는 중…」 → 성공하면 목록으로 가서 「발권했어요」(고칠 때 「승차권을 고쳤어요」).
 10. **지우기** — 고칠 때만 「이 승차권 지우기」. 한 번 누르면 「한 번 더 누르면 지워요」, 또 누르면 지우고 목록으로 「승차권을 지웠어요」.
 

diff --git a/docs/flows/06-search-merge.md b/docs/flows/06-search-merge.md
@@ -31,7 +31,7 @@ flowchart TD
   Result -- "출발 · 도착 누르기" --> Change["그 끝을 같은 방식으로 찾기"]
   Change -- "고름" --> Result
   Change -- "뒤로" --> Result
-  Result -- "지금 출발 줄" --> When["오늘 · 내일 · 시각 바퀴"]
+  Result -- "시간 줄" --> When["시각 바퀴"]
   When -- "이 시간에 출발" --> Result
   Result -- "펼친 카드의 승차권 등록" --> Login{"로그인했나"}
   Login -- "아니다" --> LoginSheet["로그인 팝업"]
@@ -79,24 +79,24 @@ flowchart TD
 ![뒤로](screens/06-search-merge/06-back.png)
 
 ### 7. 도착을 고름 → 경로 결과
-내 위치를 출발로 바로 경로를 보여 준다. 시각은 묻지 않고 지금 출발로 찾으며, 요약 옆에 「지금 출발」 줄을 둔다. 요약의 출발이나 도착을 누르면 그 끝을 장소 검색으로 바꾸고, 뒤로 가면 결과로 돌아온다. 요약 줄의 맞바꾸기 단추(⇅)는 출발과 도착을 바꿔 다시 찾는다. 두 번 누르면 원래대로 돌아온다.
+내 위치를 출발로 바로 경로를 보여 준다. 시각은 묻지 않고 지금 출발로 찾으며, 출발 · 도착 · 시간 세 줄을 카드 하나에 묶는다. 요약의 출발이나 도착을 누르면 그 끝을 장소 검색으로 바꾸고, 뒤로 가면 결과로 돌아온다. 요약 줄의 맞바꾸기 단추(⇅)는 출발과 도착을 바꿔 다시 찾는다. 두 번 누르면 원래대로 돌아온다. 휴대폰에서 시트는 처음 50%이고 손잡이를 위로 끌 때만 72%로 커진다.
 
 ![경로 결과](screens/06-search-merge/07-result.png)
 
 ### 8. 출발 시각 고르기
-「지금 출발」을 누르면 오늘 · 내일과 발권 화면과 같은 시각 바퀴(오전 · 오후 / 시 / 5분 단위 분)가 열린다. 「지금으로」 로 되돌리고, 지난 시각에서 멈추면 고를 수 있는 가장 이른 때로 되돌린다.
+시간 줄을 누르면 발권 화면과 같은 시각 바퀴(오전 · 오후 / 시 / 5분 단위 분)가 열린다. 날짜는 고르지 않고 오늘 기준이다. 「지금으로」 로 되돌리고, 지난 시각에서 멈추면 고를 수 있는 가장 이른 때로 되돌린다.
 
 ![시각 고르기](screens/06-search-merge/08-when.png)
 
 ### 9. 승차권 등록
-펼친 경로 카드 맨 아래에 「승차권 등록」을 둔다. 로그인 전이면 「로그인하면 승차권을 등록할 수 있어요」 팝업을 먼저 띄우고, 로그인하면 지도가 뜬 뒤(최대 15초 기다림) 경로 목록을 되살리고 발권 서랍으로 이어진다. 지도가 끝내 뜨지 않거나 경로를 다시 그리지 못해도 발권 서랍은 열린다.
+경로 카드를 눌러 펼치면 맨 아래에 「승차권 등록」이 있다. 로그인 전이면 「로그인하면 승차권을 등록할 수 있어요」 팝업을 먼저 띄우고, 로그인하면 지도가 뜬 뒤(최대 15초 기다림) 경로 목록을 되살리고 발권 서랍으로 이어진다. 지도가 끝내 뜨지 않거나 경로를 다시 그리지 못해도 발권 서랍은 열린다.
 
 내 위치를 잃어 출발이 없으면 단추 바로 위에 「내 위치를 찾지 못했어요. 위에서 출발을 다시 골라 주세요.」를 보인다.
 
 ![승차권 등록 단추](screens/06-search-merge/09-ticket-button.png)
 
 ### 10. 발권 화면
-경로 목록을 닫지 않고 그 위에 발권 서랍을 연다. 출발 · 도착 · 시각 · 고른 경로가 채워져 있다. 시각은 경로의 출발 시각에서 가장 가까운 5분이고(오늘 경로인데 그 시각이 지났으면 지금 기준 다음 5분 — 출발 17:42 를 17:42 에 누르면 17:45, 17:50 에 누르면 17:55. 시각 바퀴에서 내일로 고른 경로는 올리지 않는다), 그 시각으로 경로를 다시 찾아 채운다(경로는 조금 늦게 채워진다). 타는 날 · 이름은 사람이 넣는다.
+경로 목록을 닫지 않고 그 위에 발권 서랍을 연다. 출발 · 도착 · 시각 · 고른 경로가 채워져 있다. 시각은 경로의 출발 시각에서 가장 가까운 5분이고(오늘 경로인데 그 시각이 지났으면 지금 기준 다음 5분 — 출발 17:42 를 17:42 에 누르면 17:45, 17:50 에 누르면 17:55. 자정을 넘긴 시각으로 찾은 경로는 올리지 않는다), 그 시각으로 경로를 다시 찾아 채운다(경로는 조금 늦게 채워진다). 칸 차례는 승차권 이름 → 타는 날 → 출발 · 도착 → 출발 시각 → 경로이고, 이름 · 타는 날은 사람이 넣는다.
 
 | 다시 찾은 답 | 경로 칸 |
 |---|---|
